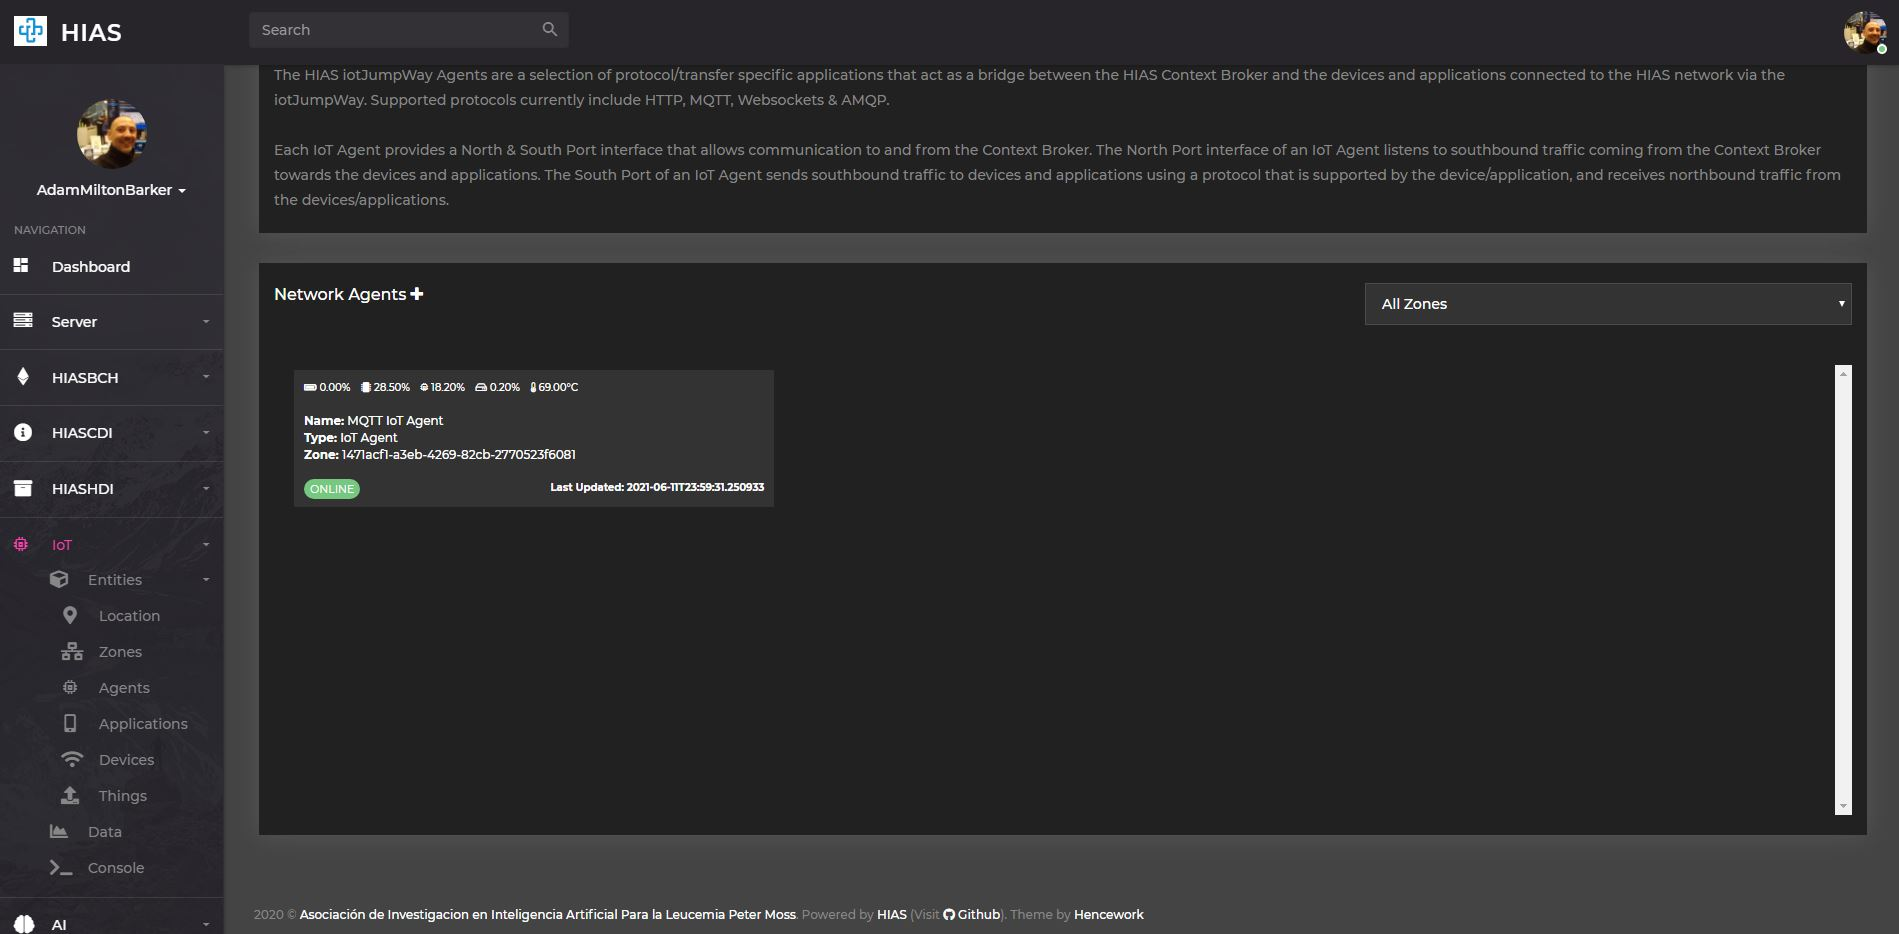
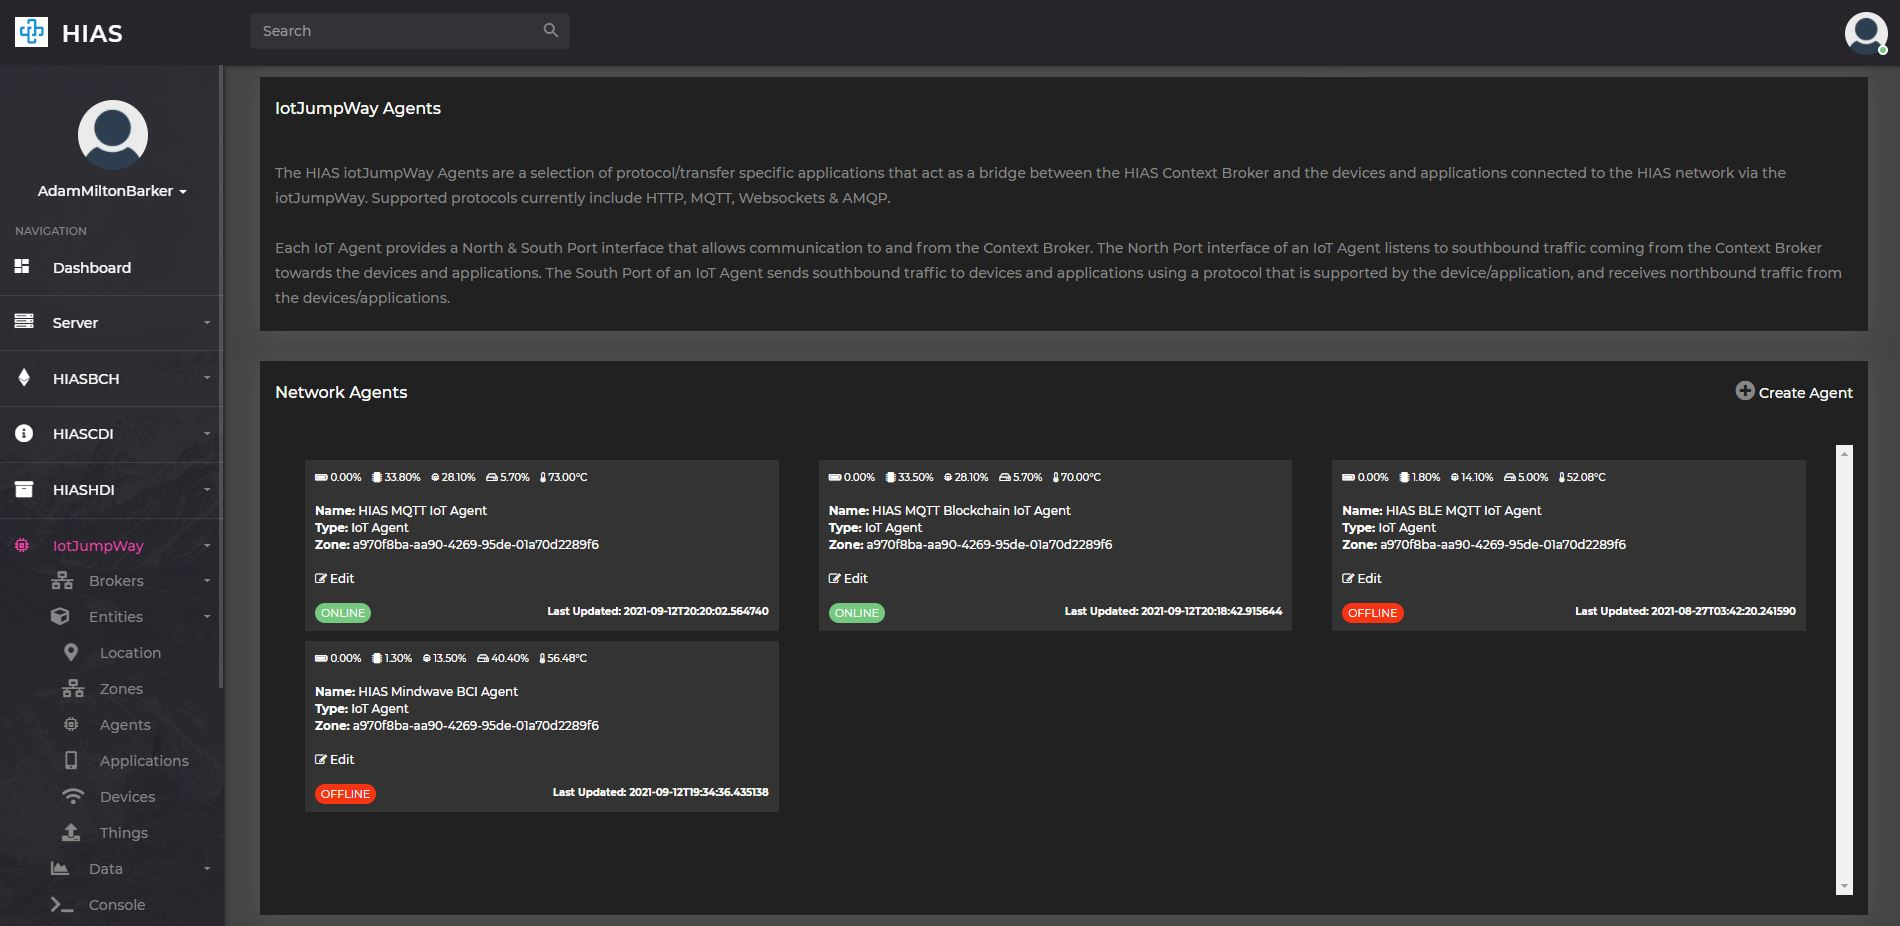
Resolves #18 Documentation updates and fixes

diff --git a/docs/installation/ubuntu.md b/docs/installation/ubuntu.md
@@ -1,4 +1,4 @@
-# Ubuntu Installation
+# Installation Guide (Ubuntu)
 
 ![HIAS MQTT IoT Agent](../img/project-banner.jpg)
 
@@ -12,7 +12,7 @@ You will need to ensure you have the following prerequisites installed and setup
 
 ## HIAS Core
 
-The HIAS MQTT IoT Agent is a core component of the [HIAS - Hospital Intelligent Automation Server](https://github.com/AIIAL/HIAS-Core). Before beginning this tutorial you should complete the HIAS installation guide ensure your HIAS server is online.
+The HIAS MQTT IoT Agent is a component of the [HIAS - Hospital Intelligent Automation Server](https://github.com/aiial/hias-core). Before beginning this tutorial you should complete the [HIAS Core](https://hias-core.readthedocs.io/en/latest/installation/ubuntu/) installation guide ensure your HIAS server is online.
 
 &nbsp;
 
@@ -21,13 +21,13 @@ You are now ready to install the HIAS MQTT IoT Agent software.
 
 ## Clone the repository
 
-Clone the [HIAS MQTT IoT Agent](https://github.com/AIIAL/HIAS-MQTT-IoT-Agent " HIAS MQTT IoT Agent") repository from the [Asociación de Investigacion en Inteligencia Artificial Para la Leucemia Peter Moss](https://github.com/AIIAL "Asociación de Investigacion en Inteligencia Artificial Para la Leucemia Peter Moss") Github Organization to your HIAS project root.
+Clone the [HIAS MQTT IoT Agent](https://github.com/aiial/hias-mqtt-iot-agent " HIAS MQTT IoT Agent") repository from the [Asociación de Investigacion en Inteligencia Artificial Para la Leucemia Peter Moss](https://github.com/aiial "Asociación de Investigacion en Inteligencia Artificial Para la Leucemia Peter Moss") Github Organization to your HIAS project root.
 
 To clone the repository and install the project, make sure you have Git installed. Now navigate to your HIAS Core project root and then use the following command.
 
 ``` bash
- git clone https://github.com/AIIAL/HIAS-MQTT-IoT-Agent.git
- mv HIAS-MQTT-IoT-Agent components/agents/mqtt
+ git clone https://github.com/aiial/hias-mqtt-iot-agent.git
+ mv hias-mqtt-iot-agent components/agents/mqtt
 ```
 
 This will clone the HIAS MQTT IoT Agent repository and move the cloned repository to the agents directory in the HIAS Core project (components/agents/mqtt/).
@@ -43,21 +43,9 @@ Using the ls command in your home directory should show you the following.
  mqtt
 ```
 
-Navigate to the **components/agents/mqtt/** directory in your HIAS project root, this is your project root directory for this tutorial.
-
-### Developer forks
-
-Developers from the Github community that would like to contribute to the development of this project should first create a fork, and clone that repository. For detailed information please view the [CONTRIBUTING](https://github.com/AIIAL/HIAS-MQTT-IoT-Agent/blob/main/CONTRIBUTING.md "CONTRIBUTING") guide. You should pull the latest code from the development branch.
-
-``` bash
- git clone -b "4.0.0" https://github.com/AIIAL/HIAS-MQTT-IoT-Agent.git
-```
-
-The **-b "4.0.0"** parameter ensures you get the code from the latest master branch. Before using the below command please check our latest master branch in the button at the top of the project README.
-
 ## Installation script
 
-All other software requirements are included in **scripts/install.sh**. You can run this file on your machine from the HIAS project root in terminal. Use the following command from the HIAS project root:
+All other software requirements are included in **scripts/install.sh**. You can run this file on your machine from the HIAS project root in terminal. Use the following command from the HIAS Core project root:
 
 ``` bash
  sh components/agents/mqtt/scripts/install.sh
@@ -73,11 +61,11 @@ The HIAS network is powered by a context broker that stores contextual data and 
 
 ## HIAS IoT Agent
 
-A HIAS IoT Agent is a bridge between HIAS devices and applications, and the **HIASCDI Context Broker** & **HIAS Historical Broker**. The IoT Agents process incoming data using a specific machine to machine communication protocol and then converting into a format compatible with HIASCDI, before sending the data to HIASCDI to update the contextual information.
+A HIAS IoT Agent is a bridge between HIAS devices and applications, and the **HIASCDI Context Broker** & **HIAS Historical Data Broker**. The IoT Agents process incoming data using a specific machine to machine communication protocol and then converting into a NGSI v2 compatible format, before sending the data to HIASCDI & HIASHDI.
 
 ![HIAS IoT Agents](../img/hias-iotjumpway-agents.jpg)
 
-You will now need to create your HIAS IoT Agent and retrieve the agent credentials. Navigate to **IoT->Entities->Agents** and click on the **+** next to the **Network Agents** title to create a HIAS IoT Agent.
+You will now need to create your HIAS IoT Agent and retrieve the agent credentials. Navigate to **IoT->Entities->Agents** and click on **+ Create Agent** to create a HIAS IoT Agent.
 
 ![HIAS IoT Agent](../img/create-hias-iotjumpway-agent.jpg)
 
@@ -87,13 +75,29 @@ On the HIAS IoT Agent page you will be able to update the contextual data for th
 
 ![HIAS IoT Agent](../img/edit-hias-iotjumpway-agent.jpg)
 
-You now need to download the credentials required to connect the Acute Lymphoblastic Leukemia oneAPI Classifier to the HIAS network.
+You now need to download the credentials required to connect the IoT Agent to the HIAS network.
 
-Click on the **Agent Credentials** section to download the credentials file. This should open your file browser, navigate to the **HIAS-Core/components/agents/mqtt/configuration/** directory and save the file as **credentials.json**.
+Click on the **Agent Credentials** section to download the credentials file. This should open your file browser, navigate to the **hias-core/components/agents/mqtt/configuration/** directory and save the file as **credentials.json**.
 
-The final configuration you have to do is to add your **HIAS IoT Agent API Key** to the **configuration/config.json** file. **HIAS API Keys** are stored as hashes and are therefore it is not possible to retrieve the key from the server. To allow your HIAS MQTT IoT Agent to connect through the HIAS proxy you need to edit the configuration file adding your secret key to **agent->proxy->up**.
+The final configuration you have to do is in the **configuration/config.json** file.
 
-If you have forgotten your IoT Agent's key, you can reset on the IoT Agent edit page in the HIAS UI.
+``` json
+{
+    "agent": {
+        "params": [],
+        "api": {
+            "content": "application/json"
+        },
+        "proxy": {
+            "up": ""
+        }
+    }
+}
+```
+
+You need to add the following:
+
+- **agent->proxy:** IoT Agent API Key
 
 &nbsp;
 
@@ -114,7 +118,7 @@ Now you can continue with the HIAS [usage guide](../usage/ubuntu.md)
 # Contributing
 Asociación de Investigacion en Inteligencia Artificial Para la Leucemia Peter Moss encourages and welcomes code contributions, bug fixes and enhancements from the Github community.
 
-Please read the [CONTRIBUTING](https://github.com/AIIAL/HIAS-MQTT-IoT-Agent/blob/main/CONTRIBUTING.md "CONTRIBUTING") document for a full guide to forking our repositories and submitting your pull requests. You will also find our code of conduct in the [Code of Conduct](https://github.com/AIIAL/HIAS-MQTT-IoT-Agent/blob/main/CODE-OF-CONDUCT.md) document.
+Please read the [CONTRIBUTING](https://github.com/aiial/hias-mqtt-iot-agent/blob/main/CONTRIBUTING.md "CONTRIBUTING") document for a full guide to forking our repositories and submitting your pull requests. You will also find our code of conduct in the [Code of Conduct](https://github.com/aiial/hias-mqtt-iot-agent/blob/main/CODE-OF-CONDUCT.md) document.
 
 ## Contributors
 - [Adam Milton-Barker](https://www.leukemiaairesearch.com/association/volunteers/adam-milton-barker "Adam Milton-Barker") - [Asociación de Investigacion en Inteligencia Artificial Para la Leucemia Peter Moss](https://www.leukemiaresearchassociation.ai "Asociación de Investigacion en Inteligencia Artificial Para la Leucemia Peter Moss") President/Founder & Lead Developer, Sabadell, Spain
@@ -127,9 +131,9 @@ We use SemVer for versioning.
 &nbsp;
 
 # License
-This project is licensed under the **MIT License** - see the [LICENSE](https://github.com/AIIAL/HIAS-MQTT-IoT-Agent/blob/main/LICENSE "LICENSE") file for details.
+This project is licensed under the **MIT License** - see the [LICENSE](https://github.com/aiial/hias-mqtt-iot-agent/blob/main/LICENSE "LICENSE") file for details.
 
 &nbsp;
 
 # Bugs/Issues
-We use the [repo issues](https://github.com/AIIAL/HIAS-MQTT-IoT-Agent/issues "repo issues") to track bugs and general requests related to using this project. See [CONTRIBUTING](https://github.com/AIIAL/HIAS-MQTT-IoT-Agent/CONTRIBUTING.md "CONTRIBUTING") for more info on how to submit bugs, feature requests and proposals.
+We use the [repo issues](https://github.com/aiial/hias-mqtt-iot-agent/issues "repo issues") to track bugs and general requests related to using this project. See [CONTRIBUTING](https://github.com/aiial/hias-mqtt-iot-agent/CONTRIBUTING.md "CONTRIBUTING") for more info on how to submit bugs, feature requests and proposals.

diff --git a/docs/index.md b/docs/index.md
@@ -2,11 +2,11 @@
 
 ![HIAS MQTT IoT Agent](img/project-banner.jpg)
 
-[![CURRENT RELEASE](https://img.shields.io/badge/CURRENT%20RELEASE-3.0.0-blue.svg)](https://github.com/AIIAL/HIAS-MQTT-IoT-Agent/tree/3.0.0) [![UPCOMING RELEASE](https://img.shields.io/badge/CURRENT%20DEV%20BRANCH-4.0.0-blue.svg)](https://github.com/AIIAL/HIAS-MQTT-IoT-Agent/tree/4.0.0) [![Contributions Welcome!](https://img.shields.io/badge/Contributions-Welcome-lightgrey.svg)](CONTRIBUTING.md)  [![Issues](https://img.shields.io/badge/Issues-Welcome-lightgrey.svg)](issues) [![LICENSE](https://img.shields.io/badge/LICENSE-MIT-blue.svg)](LICENSE)
+[![CURRENT RELEASE](https://img.shields.io/badge/CURRENT%20RELEASE-3.1.0-blue.svg)](https://github.com/aiial/hias-mqtt-iot-agent/tree/release-3.1.0) [![UPCOMING RELEASE](https://img.shields.io/badge/DEV%20BRANCH-develop-blue.svg)](https://github.com/aiial/hias-mqtt-iot-agent/tree/develop) [![Contributions Welcome!](https://img.shields.io/badge/Contributions-Welcome-lightgrey.svg)](CONTRIBUTING.md)  [![Issues](https://img.shields.io/badge/Issues-Welcome-lightgrey.svg)](issues)
 
 # Introduction
 
-A **HIAS IoT Agent** is a bridge between HIAS network devices and applications, and the HIASCDI Contextual Data Interface. The **HIAS MQTT IoT Agent** is a HIAS AI Agent that communicates with HIAS devices and applications using the MQTT machine to machine communication protocol.
+A **HIAS IoT Agent** is a bridge between HIAS network devices and applications, and the HIASCDI Contextual Data Interface. The **HIAS MQTT IoT Agent** communicates with HIAS devices and applications using the MQTT machine to machine communication protocol.
 
 &nbsp;
 
@@ -20,13 +20,13 @@ The protocol is publish-subscribe (Pub/Sub) communication protocol that runs ove
 
 # HIAS
 
-![HIAS - Hospital Intelligent Automation Server](img/hias-network.jpg)
+![HIAS - Hospital Intelligent Automation Server](img/hias-network-v3.jpg)
 
-[HIAS - Hospital Intelligent Automation Server](https://github.com/AIIAL/HIAS-Core) is an open-source automation server designed to control and manage an intelligent network of IoT connected devices and applications.
+[HIAS - Hospital Intelligent Automation Server](https://github.com/aiial/HIAS-Core) is an open-source server for hospitals and medical centers, designed to control and manage a network of intelligent IoT connected devices and applications.
 
 ## HIAS IoT Agents
 
-The HIAS iotJumpWay Agents are a selection of protocol/transfer specific applications that act as a bridge between the **HIASCDI Contextual Data Interface** & the **HIASHDI Historical Data Interface** and the devices and applications connected to the HIAS network via the iotJumpWay. Supported protocols currently include **HTTP**, **MQTT**, **Websockets**, **AMQP** and **Bluetooth/Bluetooth Low Energy (BLE)**.
+The HIAS iotJumpWay IoT Agents are based on FIWARE IoT Agents and are a selection of protocol/transfer specific applications that act as a bridge between the **HIASCDI Contextual Data Interface** & the **HIASHDI Historical Data Interface** and the devices and applications connected to the HIAS network via the iotJumpWay. Supported protocols currently include **HTTP**, **MQTT**, **Websockets**, **AMQP** and **Bluetooth/Bluetooth Low Energy (BLE)**.
 
 Each IoT Agent provides a North & South Port interface that allows communication to and from the Context Broker.
 
@@ -56,7 +56,7 @@ To get started, follow the following guides:
 # Contributing
 Asociación de Investigacion en Inteligencia Artificial Para la Leucemia Peter Moss encourages and welcomes code contributions, bug fixes and enhancements from the Github community.
 
-Please read the [CONTRIBUTING](https://github.com/AIIAL/HIAS-MQTT-IoT-Agent/blob/main/CONTRIBUTING.md "CONTRIBUTING") document for a full guide to forking our repositories and submitting your pull requests. You will also find our code of conduct in the [Code of Conduct](https://github.com/AIIAL/HIAS-MQTT-IoT-Agent/blob/main/CODE-OF-CONDUCT.md) document.
+Please read the [CONTRIBUTING](https://github.com/aiial/hias-mqtt-iot-agent/blob/main/CONTRIBUTING.md "CONTRIBUTING") document for a full guide to forking our repositories and submitting your pull requests. You will also find our code of conduct in the [Code of Conduct](https://github.com/aiial/hias-mqtt-iot-agent/blob/main/CODE-OF-CONDUCT.md) document.
 
 ## Contributors
 - [Adam Milton-Barker](https://www.leukemiaairesearch.com/association/volunteers/adam-milton-barker "Adam Milton-Barker") - [Asociación de Investigacion en Inteligencia Artificial Para la Leucemia Peter Moss](https://www.leukemiaresearchassociation.ai "Asociación de Investigacion en Inteligencia Artificial Para la Leucemia Peter Moss") President/Founder & Lead Developer, Sabadell, Spain
@@ -69,9 +69,9 @@ We use SemVer for versioning.
 &nbsp;
 
 # License
-This project is licensed under the **MIT License** - see the [LICENSE](https://github.com/AIIAL/HIAS-MQTT-IoT-Agent/blob/main/LICENSE "LICENSE") file for details.
+This project is licensed under the **MIT License** - see the [LICENSE](https://github.com/aiial/hias-mqtt-iot-agent/blob/main/LICENSE "LICENSE") file for details.
 
 &nbsp;
 
 # Bugs/Issues
-We use the [repo issues](https://github.com/AIIAL/HIAS-MQTT-IoT-Agent/issues "repo issues") to track bugs and general requests related to using this project. See [CONTRIBUTING](https://github.com/AIIAL/HIAS-MQTT-IoT-Agent/CONTRIBUTING.md "CONTRIBUTING") for more info on how to submit bugs, feature requests and proposals.
+We use the [repo issues](https://github.com/aiial/hias-mqtt-iot-agent/issues "repo issues") to track bugs and general requests related to using this project. See [CONTRIBUTING](https://github.com/aiial/hias-mqtt-iot-agent/CONTRIBUTING.md "CONTRIBUTING") for more info on how to submit bugs, feature requests and proposals.

diff --git a/README.md b/README.md
@@ -3,7 +3,7 @@
 
 ![HIAS MQTT IoT Agent](assets/images/project-banner.jpg)
 
-[![CURRENT RELEASE](https://img.shields.io/badge/CURRENT%20RELEASE-3.0.0-blue.svg)](https://github.com/AIIAL/HIAS-MQTT-IoT-Agent/tree/3.0.0) [![UPCOMING RELEASE](https://img.shields.io/badge/CURRENT%20DEV%20BRANCH-4.0.0-blue.svg)](https://github.com/AIIAL/HIAS-MQTT-IoT-Agent/tree/4.0.0) [![Contributions Welcome!](https://img.shields.io/badge/Contributions-Welcome-lightgrey.svg)](CONTRIBUTING.md)  [![Issues](https://img.shields.io/badge/Issues-Welcome-lightgrey.svg)](issues)
+[![CURRENT RELEASE](https://img.shields.io/badge/CURRENT%20RELEASE-3.1.0-blue.svg)](https://github.com/aiial/hias-mqtt-iot-agent/tree/release-3.1.0) [![UPCOMING RELEASE](https://img.shields.io/badge/DEV%20BRANCH-develop-blue.svg)](https://github.com/aiial/hias-mqtt-iot-agent/tree/develop) [![Contributions Welcome!](https://img.shields.io/badge/Contributions-Welcome-lightgrey.svg)](CONTRIBUTING.md)  [![Issues](https://img.shields.io/badge/Issues-Welcome-lightgrey.svg)](issues)
 
  [![PEP8](https://img.shields.io/badge/code%20style-pep8-orange.svg)](https://www.python.org/dev/peps/pep-0008/) [![Documentation Status](https://readthedocs.org/projects/hias-mqtt-iot-agent/badge/?version=latest)](https://hias-mqtt-iot-agent.readthedocs.io/en/latest/?badge=latest)
  [![CII Best Practices](https://bestpractices.coreinfrastructure.org/projects/4994/badge)](https://bestpractices.coreinfrastructure.org/projects/4994)
@@ -29,7 +29,7 @@
 
 # Introduction
 
-A **HIAS IoT Agent** is a bridge between HIAS network devices and applications, and the HIASCDI Contextual Data Interface. The **HIAS MQTT IoT Agent** is a HIAS AI Agent that communicates with HIAS devices and applications using the MQTT machine to machine communication protocol.
+A **HIAS IoT Agent** is a bridge between HIAS network devices and applications, and the HIASCDI Contextual Data Interface. The **HIAS MQTT IoT Agent** communicates with HIAS devices and applications using the MQTT machine to machine communication protocol.
 
 &nbsp;
 
@@ -43,13 +43,13 @@ The protocol is publish-subscribe (Pub/Sub) communication protocol that runs ove
 
 # HIAS
 
-![HIAS - Hospital Intelligent Automation Server](assets/images/hias-network.jpg)
+![HIAS - Hospital Intelligent Automation Server](assets/images/hias-network-v3.jpg)
 
-[HIAS - Hospital Intelligent Automation Server](https://github.com/AIIAL/HIAS-Core) is an open-source automation server designed to control and manage an intelligent network of IoT connected devices and applications.
+[HIAS - Hospital Intelligent Automation Server](https://github.com/aiial/HIAS-Core) is an open-source server for hospitals and medical centers, designed to control and manage a network of intelligent IoT connected devices and applications.
 
 ## HIAS IoT Agents
 
-The HIAS iotJumpWay Agents are a selection of protocol/transfer specific applications that act as a bridge between the **HIASCDI Contextual Data Interface** & the **HIASHDI Historical Data Interface** and the devices and applications connected to the HIAS network via the iotJumpWay. Supported protocols currently include **HTTP**, **MQTT**, **Websockets**, **AMQP** and **Bluetooth/Bluetooth Low Energy (BLE)**.
+The HIAS iotJumpWay IoT Agents are based on FIWARE IoT Agents and are a selection of protocol/transfer specific applications that act as a bridge between the **HIASCDI Contextual Data Interface** & the **HIASHDI Historical Data Interface** and the devices and applications connected to the HIAS network via the iotJumpWay. Supported protocols currently include **HTTP**, **MQTT**, **Websockets**, **AMQP** and **Bluetooth/Bluetooth Low Energy (BLE)**.
 
 Each IoT Agent provides a North & South Port interface that allows communication to and from the Context Broker.
 

diff --git a/docs/usage/ubuntu.md b/docs/usage/ubuntu.md
@@ -1,4 +1,4 @@
-# Ubuntu Usage
+#  Usage Guide (Ubuntu)
 
 ![HIAS MQTT IoT Agent](../img/project-banner.jpg)
 
@@ -9,7 +9,7 @@ This guide will take you through using the **HIAS MQTT IoT Agent**.
 
 # Prerequisites
 
-- You must have completed the [HIAS MQTT IoT Agent installation guide](../installation/installation.md).
+- You must have completed the [HIAS MQTT IoT Agent installation guide](../installation/ubuntu.md).
 
 - Ensure **HIAS**, **HIASBCH**, **HIASHDI** and **HIASCDI** are **running**.
 
